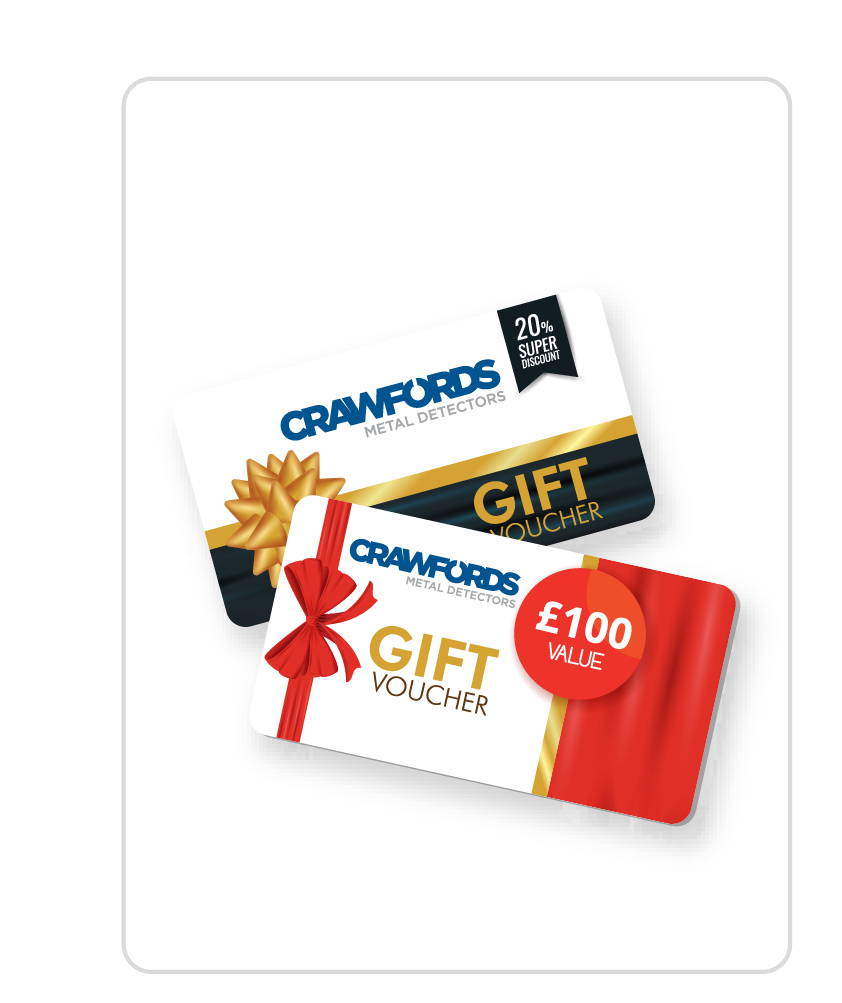
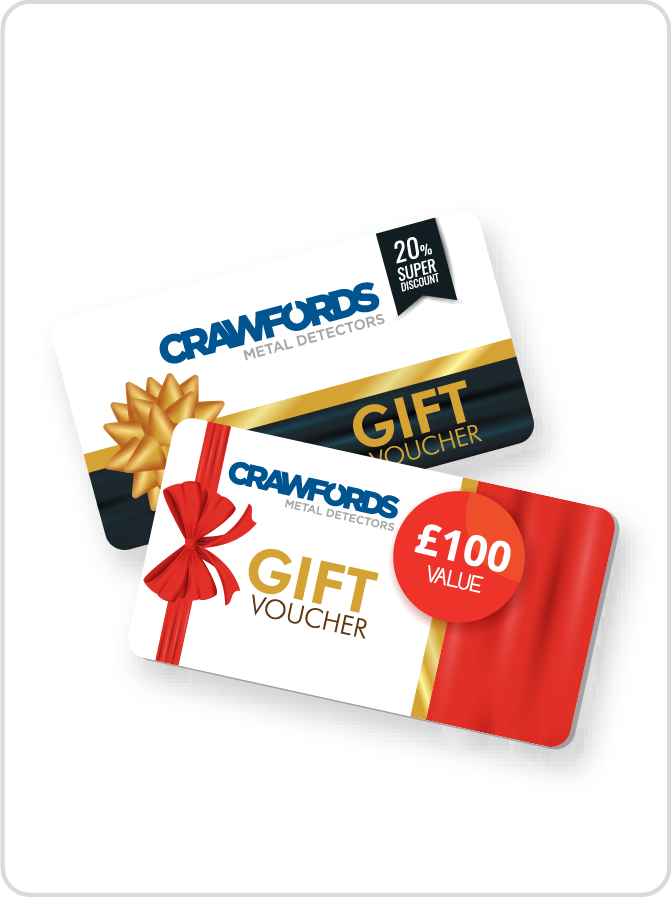
index page update

Changed region(s): [[0.0, 0.0, 1.0, 1.0], [0.149, 0.0624, 0.924, 0.0936]]

diff --git a/index.html b/index.html
@@ -1251,6 +1251,7 @@ body{
     border-radius: 14px;
     cursor: pointer;
     transition: 0.3s;
+	margin-bottom: 11px;
 }
 
 .offer-btn:hover{
@@ -1989,7 +1990,7 @@ href="https://cdn.jsdelivr.net/npm/swiper@11/swiper-bundle.min.css"/>
 		
 		<!-- CARD 2 -->
         <div class="offer-card image-card">
-            <img src="e3.png" alt="Books">
+            <img src="e2.png" alt="Books">
             <div class="offer-overlay light">
                 <h3>GIFT CARDS AVAILABLE</h3>
                 <span>
